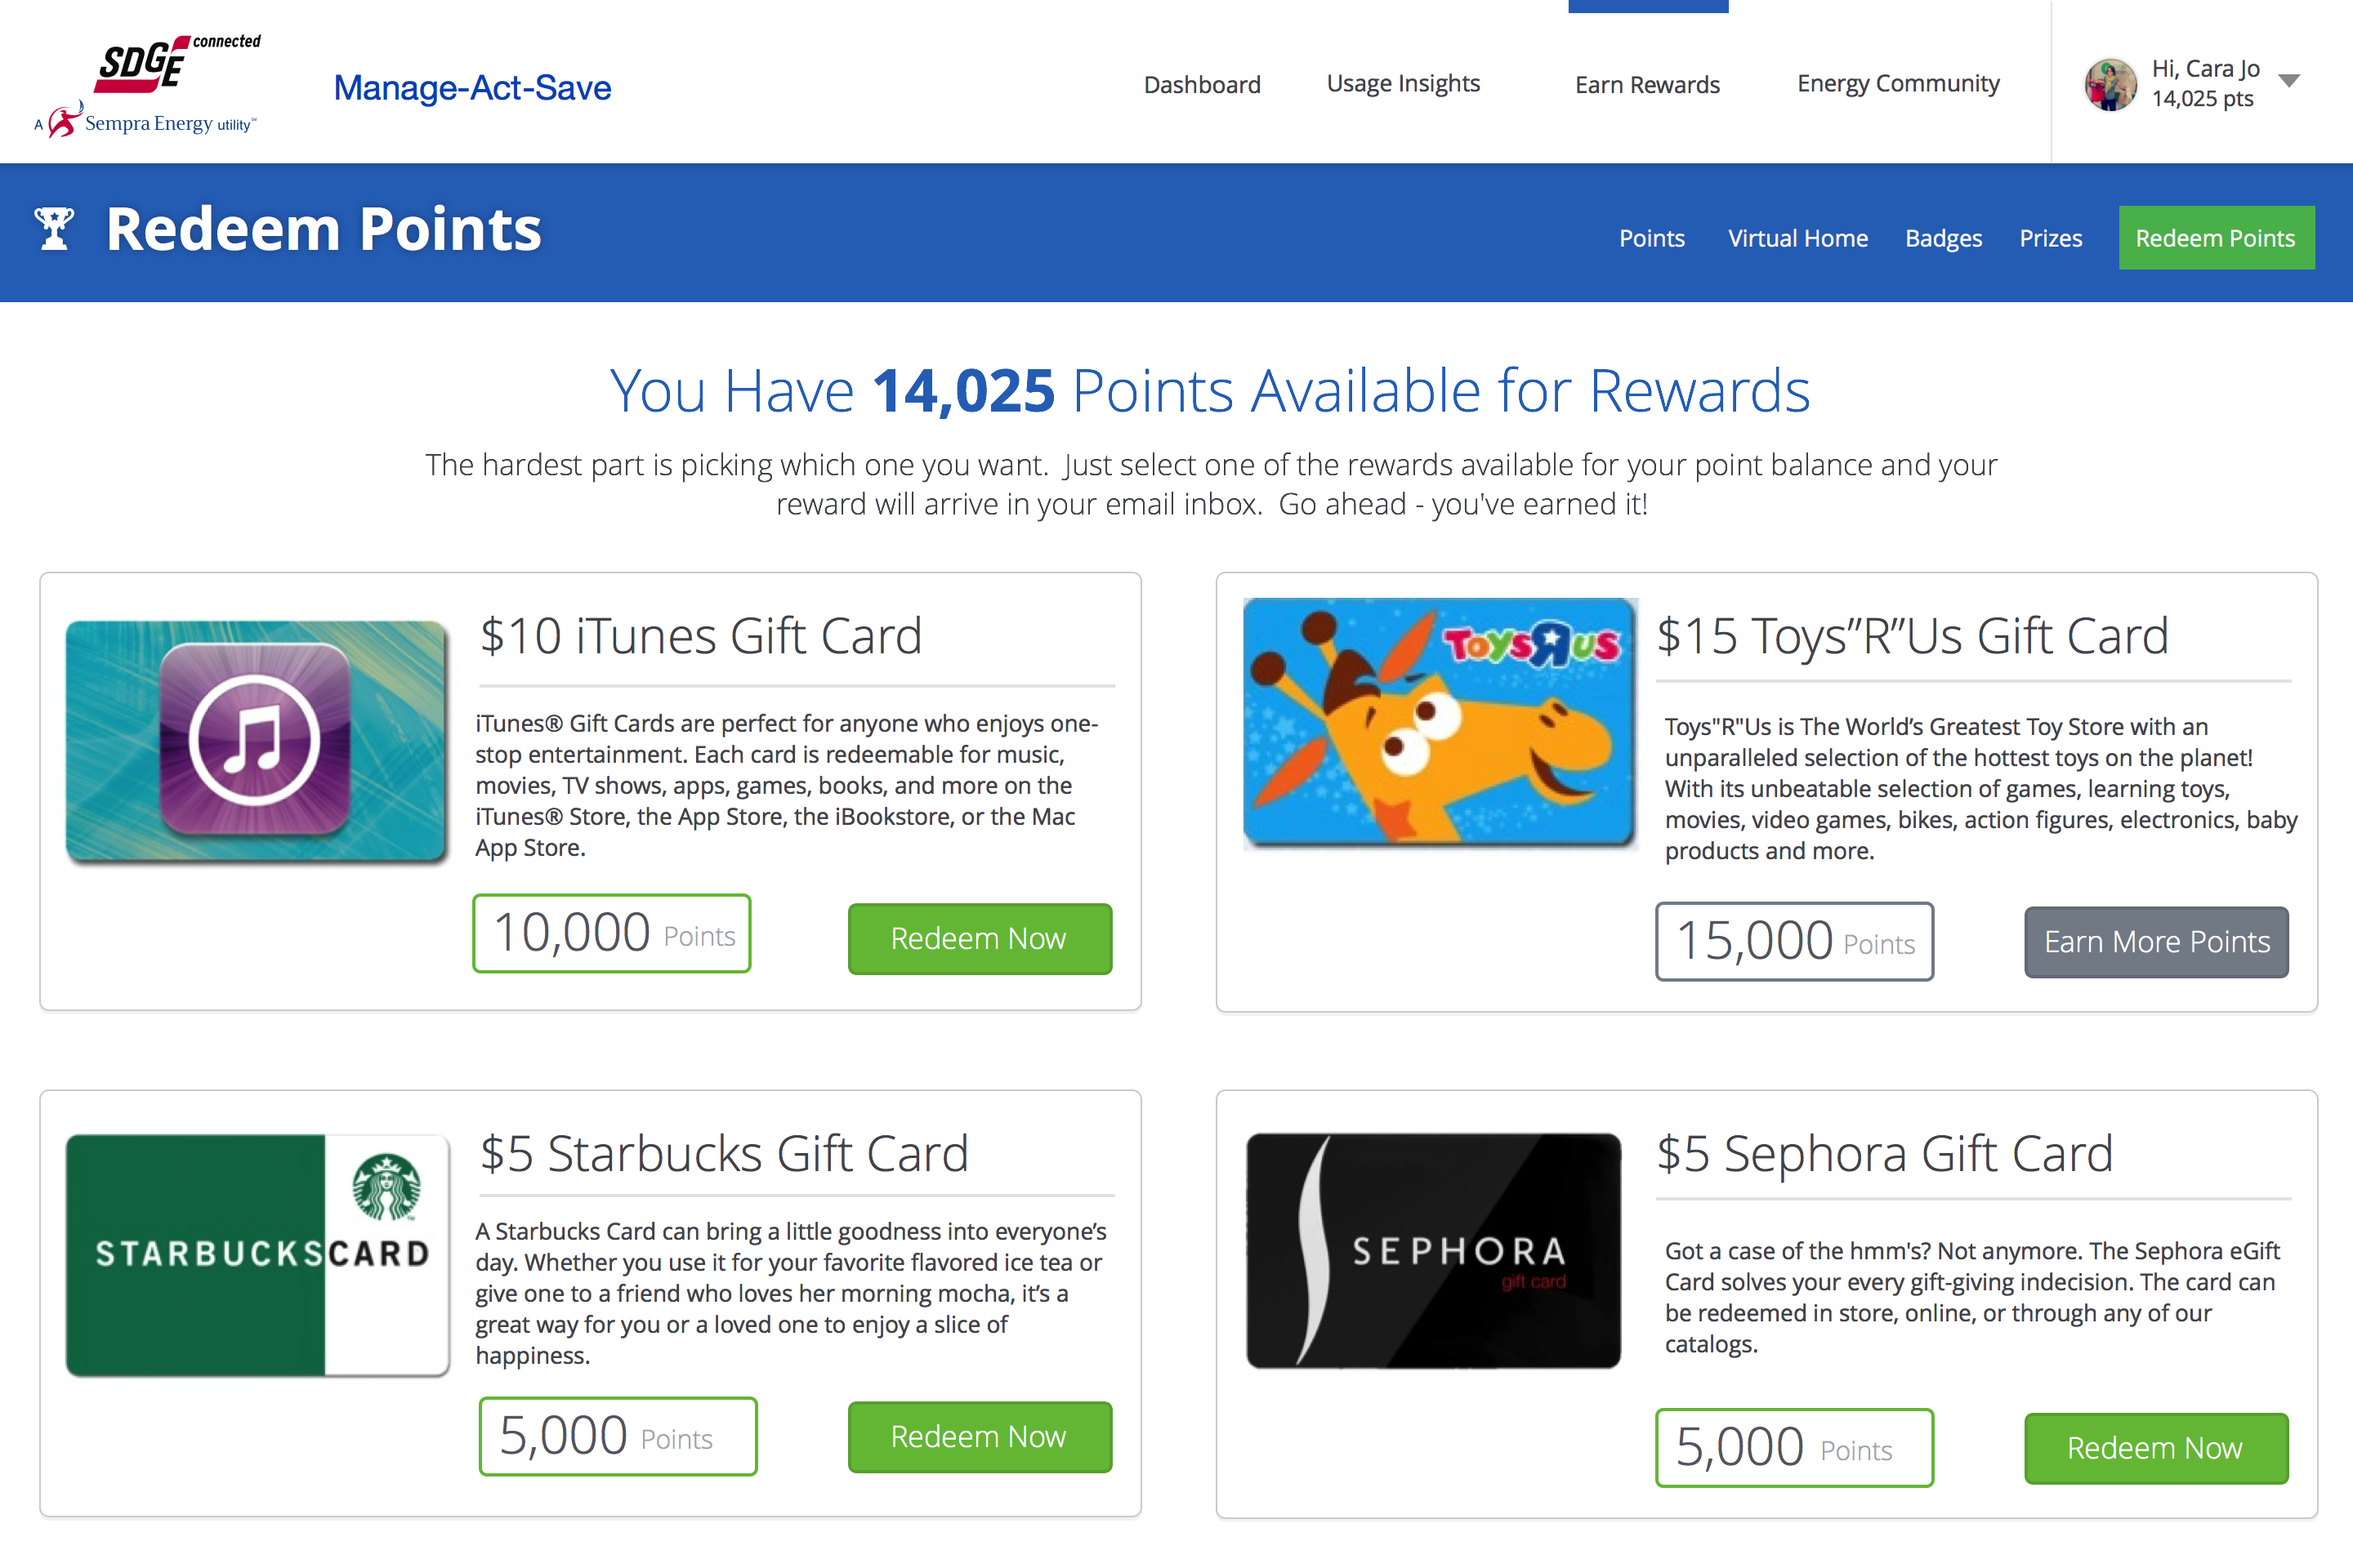
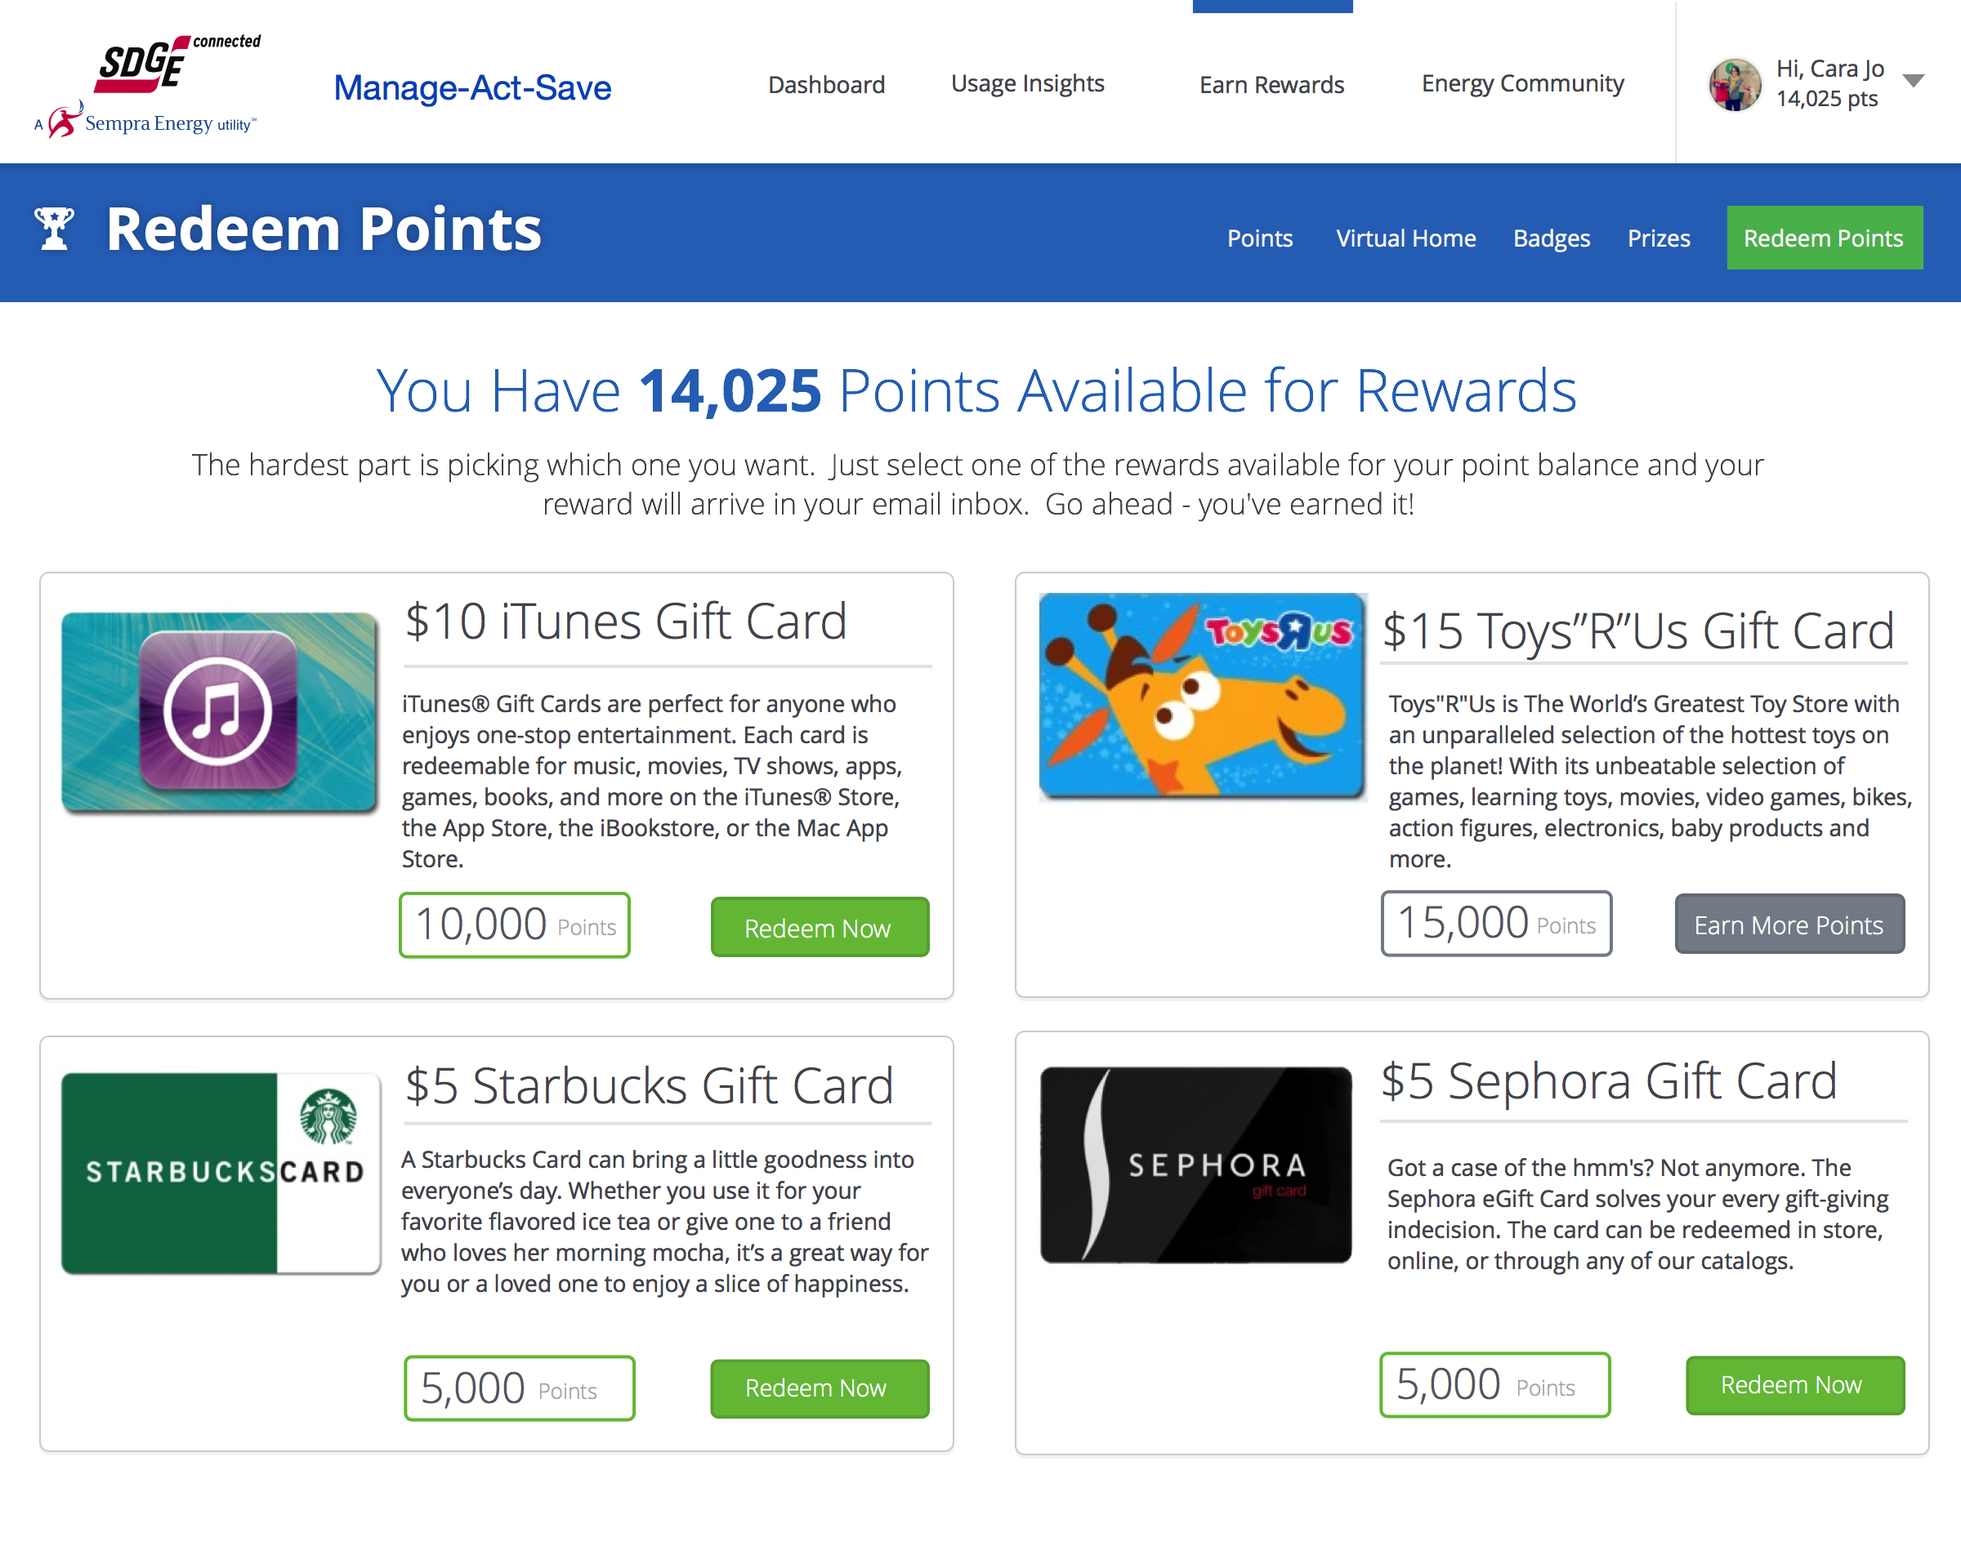
updating width of redeem points page and wording on welcome email

diff --git a/welcome-email.html b/welcome-email.html
@@ -7,6 +7,6 @@
   </style>
   </head>
   <body>
-    <img src="images/welcome-email.png" alt="Welcome Email" height="1414" width="599"/>
+    <img src="images/welcome-email.png" alt="Welcome Email" height="1414" width="600"/>
   </body>
 </html>

diff --git a/redeem-points.html b/redeem-points.html
@@ -7,6 +7,6 @@
   </style>
   </head>
   <body>
-    <img src="images/redeem-points.png" alt="Earn Points" height="960" width="1440"/>
+    <img src="images/redeem-points.png" alt="Earn Points" height="960" width="1200"/>
   </body>
 </html>
